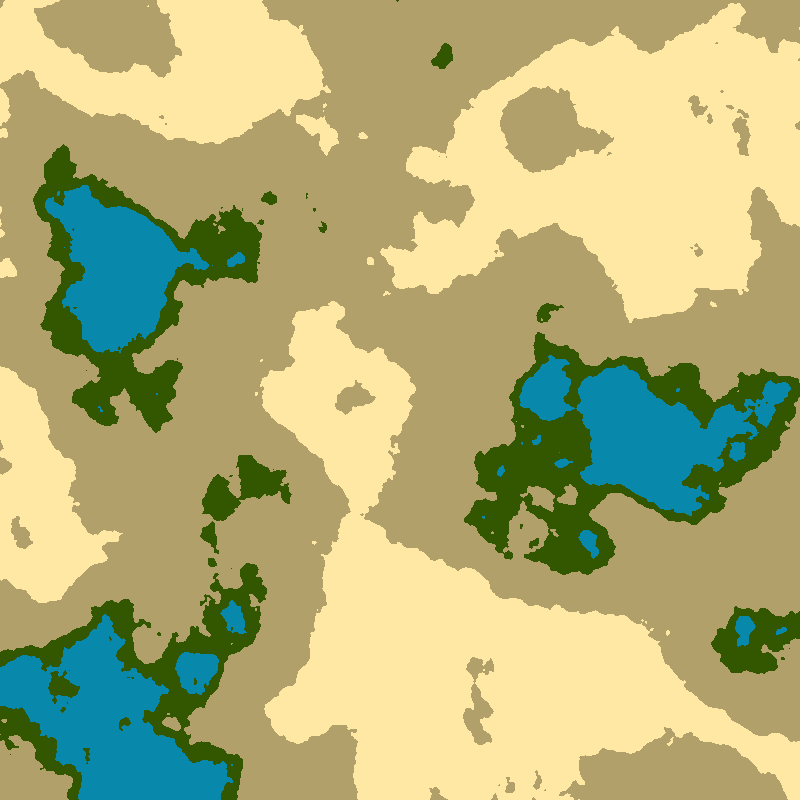
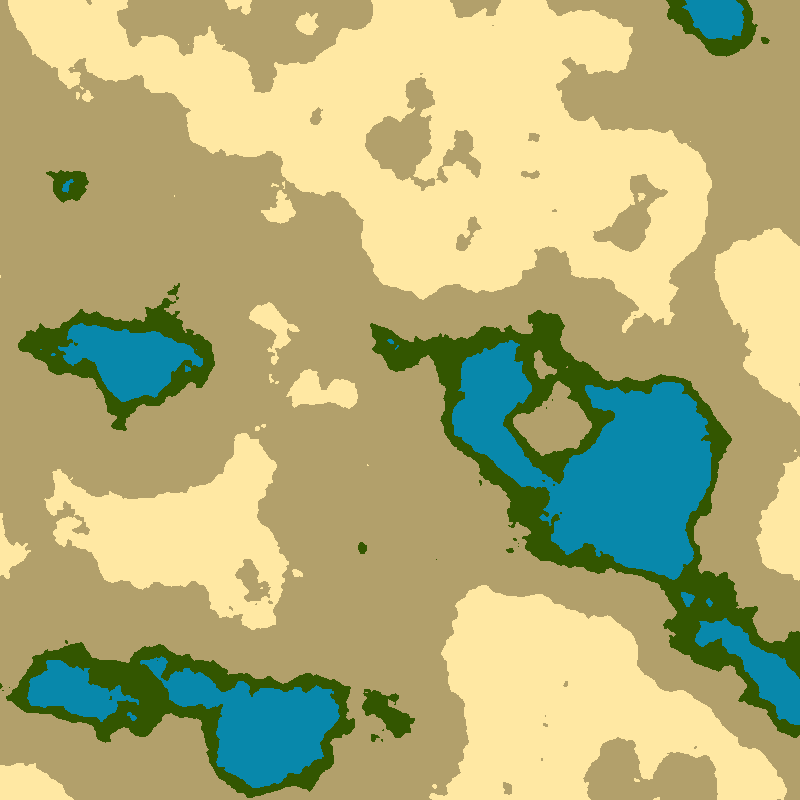
requirements added for procedural generation

diff --git a/ProcGen/procgen_islands/main.py b/ProcGen/procgen_islands/main.py
@@ -5,10 +5,10 @@ import matplotlib.ticker as plticker
 from PIL import Image
 from scipy.misc import imsave
 
-shape = (800, 800)
-scale = 600         # higher zoomed in factor = higher number
-octaves = 7         # number of layers
-persistence = 0.5   # amplitude that each octave constributes to overall shape
+shape = (800, 800)  # USER OPTIONAL: output size (x,y)
+scale = 400         # USER OPTIONAL: higher zoomed in factor = higher number
+octaves = 7         # USER OPTIONAL: number of layers; more layers = more detail added
+persistence = 0.5   # amplitude that each octave contributes to overall shape
 lacunarity = 2.0    # frequency of detail at each octave
 seed = np.random.randint(0, 100)
 
@@ -53,19 +53,21 @@ color_world = add_color(world)
 imsave('islands.png', color_world)
 
 background = Image.open('islands.png')
-my_dpi = 200  # set screen dots per inch
+my_dpi = 100  # set screen dots per inch
 
 grid = plt.figure(figsize=(float(background.size[0]) / my_dpi, float(background.size[1]) / my_dpi), dpi=my_dpi)
 ax = grid.add_subplot(111)
 
 grid.subplots_adjust(left=0, right=1, bottom=0, top=1)
 
-myInterval = 50 # each grid plot will be 100x100
+myInterval = 50 # USER OPTIONAL: each grid plot will be (myInterval x myInterval) pixels
 a = plticker.MultipleLocator(base=myInterval)
 ax.xaxis.set_major_locator(a)
 ax.yaxis.set_major_locator(a)
 
-ax.grid(which='major', axis='both', linestyle='-', color='black')
+# Adds grid to image with set values
+# USER OPTIONAL: linewidth = line thickness
+ax.grid(which='major', axis='both', linestyle='-', color='black', linewidth=1)
 
 ax.imshow(background)
 

diff --git a/ProcGen/procgen_forest/main.py b/ProcGen/procgen_forest/main.py
@@ -7,7 +7,7 @@ from PIL import Image
 from scipy.misc import imsave
 
 shape = (800, 800)
-scale = 250         # higher zoomed in factor = higher number
+scale = 300         # higher zoomed in factor = higher number
 octaves = 6         # number of layers
 persistence = 0.5   # amplitude that each octave contributes to overall shape
 lacunarity = 2.0    # frequency of detail at each octave
@@ -85,9 +85,9 @@ def add_color(world):
 
 
 color_world = add_color(world)
-imsave('colorworld1.png', color_world)
+imsave('forest.png', color_world)
 
-background = Image.open('colorworld1.png')
+background = Image.open('forest.png')
 my_dpi = 200  # set screen dots per inch
 
 grid = plt.figure(figsize=(float(background.size[0]) / my_dpi, float(background.size[1]) / my_dpi), dpi=my_dpi)
@@ -100,11 +100,11 @@ a = plticker.MultipleLocator(base=myInterval)
 ax.xaxis.set_major_locator(a)
 ax.yaxis.set_major_locator(a)
 
-ax.grid(which='major', axis='both', linestyle='-', color='black')
+ax.grid(which='major', axis='both', linestyle='-', color='black', linewidth=1)
 
 ax.imshow(background)
 
-grid.savefig('colorworld1_grid.png', dpi=my_dpi)
+grid.savefig('forest_grid.png', dpi=my_dpi)
 
-im = Image.open('colorworld1_grid.png')
+im = Image.open('forest_grid.png')
 im.show()

diff --git a/ProcGen/procgen_caves/main.py b/ProcGen/procgen_caves/main.py
@@ -66,7 +66,7 @@ a = plticker.MultipleLocator(base=myInterval)
 ax.xaxis.set_major_locator(a)
 ax.yaxis.set_major_locator(a)
 
-ax.grid(which='major', axis='both', linestyle='-', color='white')
+ax.grid(which='major', axis='both', linestyle='-', color='white', linewidth=1)
 
 ax.imshow(background)
 

diff --git a/ProcGen/procgen_desert/main.py b/ProcGen/procgen_desert/main.py
@@ -65,7 +65,7 @@ a = plticker.MultipleLocator(base=myInterval)
 ax.xaxis.set_major_locator(a)
 ax.yaxis.set_major_locator(a)
 
-ax.grid(which='major', axis='both', linestyle='-', color='black')
+ax.grid(which='major', axis='both', linestyle='-', color='black', linewidth=1)
 
 ax.imshow(background)
 
